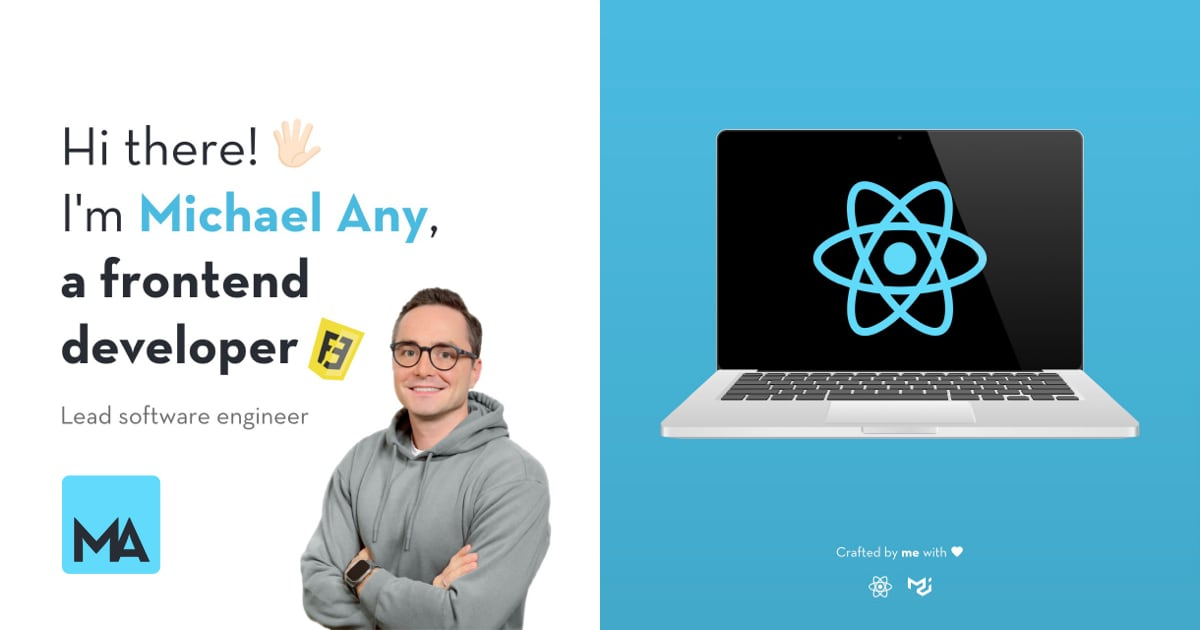
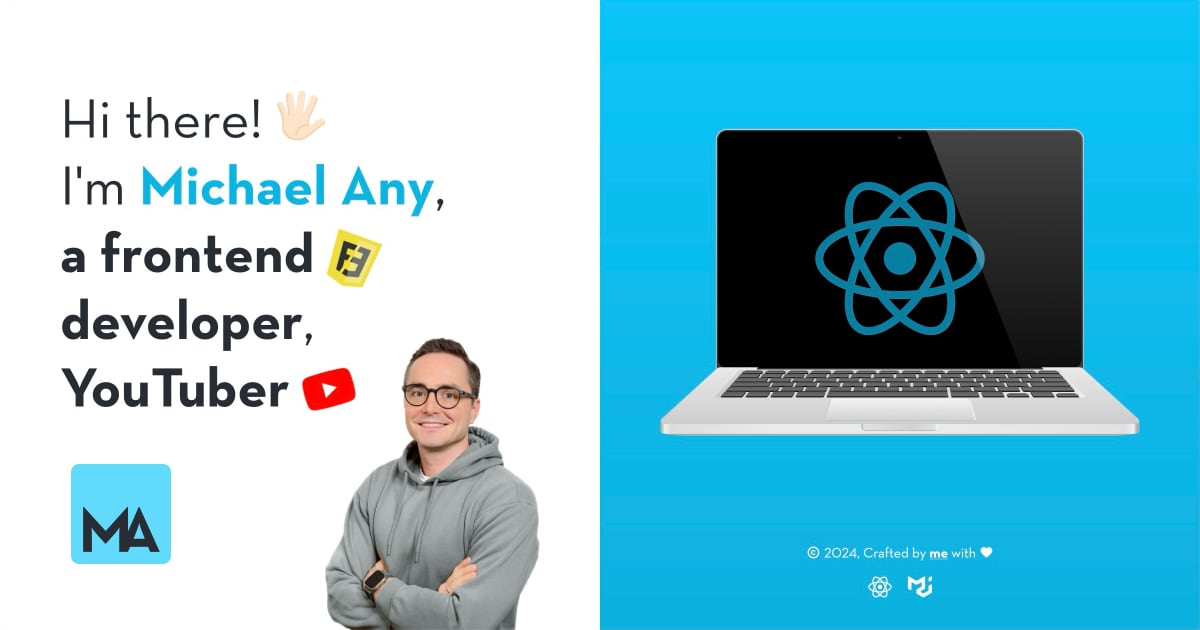
chnage texts & preview image

diff --git a/index.html b/index.html
@@ -6,7 +6,7 @@
     <meta name="author" content="Michael Any | https://github.com/michaelany" />
     <meta
       name="description"
-      content="Personal website of Michael Any, a Frontend Developer, Lead Software Engineer & YouTuber"
+      content="Personal website of Michael Any, Lead Frontend Engineer & YouTuber"
     />
     <meta
       name="keywords"
@@ -14,11 +14,11 @@
     />
     <meta
       property="og:title"
-      content="Michael Any | Frontend Developer | Lead Software Engineer | YouTuber"
+      content="Michael Any | Lead Frontend Engineer | YouTuber"
     />
     <meta
       property="og:description"
-      content="Personal website of Michael Any, a Frontend Developer, Lead Software Engineer & YouTuber"
+      content="Personal website of Michael Any, Lead Frontend Engineer & YouTuber"
     />
     <meta property="og:type" content="website" />
     <meta property="og:url" content="https://michaelany.com" />
@@ -30,7 +30,7 @@
     <meta name="twitter:card" content="summary_large_image" />
     <meta
       name="twitter:image:alt"
-      content="Michael Any | Frontend Developer | Lead Software Engineer | YouTuber"
+      content="Michael Any | Lead Frontend Engineer | YouTuber"
     />
     <meta name="msapplication-TileColor" content="#ffffff" />
     <link rel="icon" href="/assets/logo.svg" />
@@ -41,9 +41,7 @@
     />
     <link rel="apple-touch-icon" href="/assets/apple-touch-icon.png" />
     <link type="text/plain" rel="author" href="/humans.txt" />
-    <title>
-      Michael Any | Frontend Developer | Lead Software Engineer | YouTuber
-    </title>
+    <title>Michael Any | Lead Frontend Engineer | YouTuber</title>
     <style>
       @keyframes pulse {
         from {

diff --git a/src/translations/en.ts b/src/translations/en.ts
@@ -10,7 +10,7 @@ const common = {
     language: 'English',
   },
   occupation: {
-    lead: 'Lead Frontend Developer',
+    lead: 'Lead Frontend Engineer',
     teamLead: 'Frontend Team Lead',
     senior: 'Senior Frontend Developer',
     middle: 'Frontend Developer',

diff --git a/README.md b/README.md
@@ -6,7 +6,7 @@
 
 <h1 align="center">Michael Any</h1>
 
-## Hi there! 👋<br>I'm [Michael Any][website] 🦸♂<br>Frontend Developer & Lead Software Engineer 👨💻<br>[YouTuber][youtube] 📹
+## Hi there! 👋<br>I'm [Michael Any][website] 🦸♂<br>Lead Frontend Engineer 👨💻<br>[YouTuber][youtube] 📹
 
 ## [About](https://michaelany.com/#/about)
 
